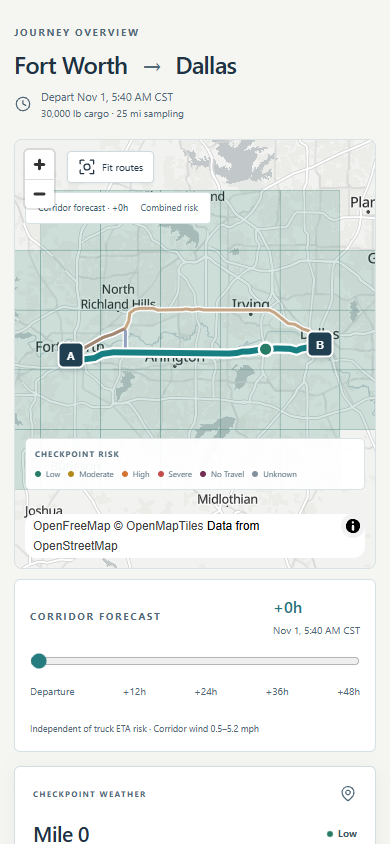
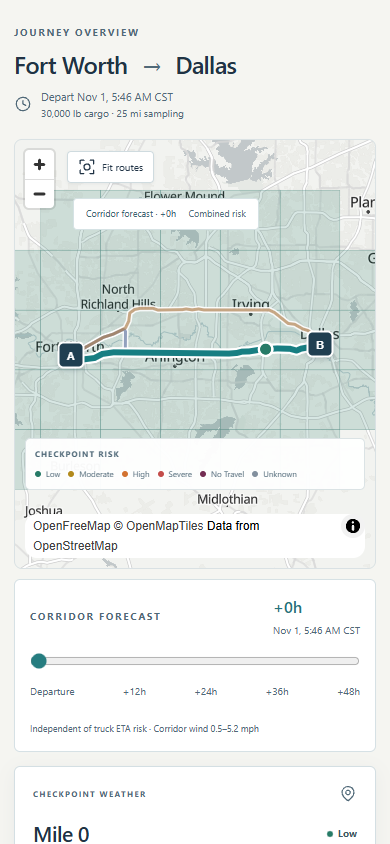
Audit every assessment requirement and record final verified submission state

Changed region(s): [[0.0923, 0.2156, 0.6769, 0.2773], [0.3077, 0.0924, 0.3385, 0.1232]]

diff --git a/frontend/tests/browser/journey.spec.ts b/frontend/tests/browser/journey.spec.ts
@@ -126,6 +126,18 @@ test('synthetic journey: comparison, inspector and real map sources stay synchro
       () => document.documentElement.scrollWidth <= window.innerWidth,
     ),
   ).toBe(true);
+  const label = await page.locator('.forecast-map-label').boundingBox();
+  const navigation = await page
+    .locator('.maplibregl-ctrl-top-left')
+    .boundingBox();
+  expect(label).not.toBeNull();
+  expect(navigation).not.toBeNull();
+  expect(
+    label!.x >= navigation!.x + navigation!.width ||
+      label!.y >= navigation!.y + navigation!.height ||
+      label!.x + label!.width <= navigation!.x ||
+      label!.y + label!.height <= navigation!.y,
+  ).toBe(true);
   await page.screenshot({
     path: testInfo.outputPath('journey.png'),
     fullPage: true,

diff --git a/docs/FINAL_AUDIT.md b/docs/FINAL_AUDIT.md
@@ -1,0 +1,61 @@
+# Final assessment audit
+
+Audit date: November 1, 2026. Authority: both pages of [the assessment PDF](fs-assessment-spotter.pdf). This is a critical local submission audit, not a claim of completed public delivery. No numerical assessment score or hiring outcome is inferred.
+
+## Requirement coverage
+
+Paths below are relative to the repository. All Python tests are under `backend/routing/tests`; browser cases are under `frontend/tests/browser`. Live receipts are separate from synthetic tests and retain their capture times.
+
+| Requirement | Implementation | Deterministic test evidence | Live / browser evidence | Status and remaining limitation |
+|---|---|---|---|---|
+| E01 React + Django | `frontend/src/app/App.tsx`, `backend/config`, API views | health/client/API tests; production build | Real local React journey calls Django; desktop/mobile screenshots | Implemented locally; public end-to-end release pending |
+| E02 Origin / destination | TripForm, PlaceSearch; Pelias adapter; `/geocode` | `journey.spec.ts` keyboard selection, unselected-input validation; `test_http_api.py` | `live-plan.json`: two candidates per actual search; rendered selected places | Complete locally; provider availability/quota dependent |
+| E03 Departure date/time | `features/trip/time.ts`, request serializers | seven timezone cases including DST gaps/ambiguity; API offset/horizon validation | Live plan stores UTC departure; browser shows explicit IANA-zone date/time | Complete; nonexistent/ambiguous wall times require another time or UTC |
+| E04 Load pounds | TripForm, pure `domain/risk.py` | `test_risk.py`: strict 30,000/40,000 equality and override boundaries; invalid input | Actual cargo field/units visible in browser | Complete; cargo is deliberately not ORS gross vehicle weight |
+| E05 Three API routes | `providers/ors.py`, factory; driving-hgv | `test_ors.py`: GeoJSON, warnings, timing, duplicate rejection, long-trip truck fallback | `ors-smoke.json`, `live-plan.json`, `live-browser.json`: three distinct Fort Worth-Dallas routes | Demonstrated; public alternatives limited to 100 km and never guaranteed for arbitrary pairs |
+| E06 10/25/50-mile weather checkpoints | `domain/geometry.py`, planning service | `test_pipeline.py`: spacing, short/exact/remainder, sections, endpoint uniqueness, distance conservation | Live backend proof at 10 miles; browser example at 25; all choices selectable | Complete; official step distance distributed along actual step geometry is an estimate |
+| E07 Weather at truck ETA | geometry timing, `domain/forecast.py`, forecasts service | Nonuniform step timing, fallbacks, midnight, arrival-specific hourly intervals, missing coverage | Live instruction totals reconcile within rounding; checkpoint ETA/valid-time inspector | Complete; ORS durations are estimates without live traffic, stops or driver-hours scheduling |
+| E08 Exact weather/load risk | `domain/risk.py`, `units.py`, `exposure.py` | Full parameterized thresholds/equality/conversions/unknowns; conservative Severe/High interval miles | Live normalized Open-Meteo units; browser hazard labels | Complete; shared PDF endpoints/decimal wind interpretations explicitly documented in D02/D03 |
+| E09 Recommendation priority | `domain/ranking.py`, `services/planning.py` | Tie-breaker counterexamples; unknown/No Travel exclusion; provisional wording | Live benign weather ties resolve by duration; synthetic browser verifies hazardous/incomplete branches | Complete; no live severe-weather journey is claimed; miles and ordinal average are estimates |
+| E10 All-route map / checkpoints / ETA / summaries | persistent RouteMap, RouteComparison, CheckpointInspector | Rendered source/selection checks, accessible list, WebGL fallback, synchronized details, Axe | Real tiles and geometries in screenshots; desktop/mobile browser proof | Complete locally; basemap requires network/WebGL, list remains available |
+| E11 Corridor heatmap / 0-48 slider | `domain/corridor.py`, signed context/corridor service; ForecastControls/Slider; MapLibre feature-state | `test_corridor.py`, forecast features tests; rendered 0/48, one fetch, unchanged recommendation, independent failure/retry | Live 35 cells / 49 frames; different frame values, render receipts and screenshots | Complete locally; categorical center-sample cells, not continuous meteorological observations; 96-cell cap, polar/dateline bounds; 50 ms target unproven |
+| E12 GitHub | existing origin, coherent local milestones, CI workflow | Lockfiles/setup/checks and history secret scan | Origin configured; no push performed | Partial delivery: local commits must be approved and pushed; remote CI not yet run |
+| E13 Hosted application | `render.yaml`, Gunicorn, production settings, `DEPLOYMENT.md` | Production subprocess check, HTTPS/header/CORS tests, production frontend build | Current official free-service documentation reviewed; no hosted instance created | Pending approval/account access: actual Linux startup, TLS, CORS, URLs/cold start must be verified |
+| E14 5-10 minute Loom | `WALKTHROUGH.md` seven-to-eight-minute demonstration outline | Documentation reviewed against PDF | No recording exists | Pending manual recording and accessible real link |
+
+## Independent correctness review
+
+- Risk calculations retain the PDF's unusual load direction. Wind at 55 is No Travel for all loads; strict heavier-load overrides preserve equality behavior. Rain at 1.00 and snow at 3.00 remain Severe; values above become No Travel. Display rounding never enters classification.
+- Road exposure sums interval lengths, not checkpoint counts. Each interval receives its worst endpoint; unknown persists unless a known No Travel hazard disqualifies it. The ordinal average is distance-weighted and has no probability interpretation. Comparison uses unrounded lexicographic values: Severe, High, average, duration.
+- Official route totals remain authoritative. Geometry locations and within-instruction timing are interpolated, with explicit section fallback when timing metadata is incomplete. Duplicate geometry is removed; fewer alternatives cause truthful provisional wording, never car-route substitution.
+- Forecasts are model predictions. Rain plus showers are separate liquid components; snowfall uses new-snow depth, not snow-water equivalent. Wind and precipitation valid times have distinct lookup semantics. Missing values remain missing. Forecast retrieval/cache timestamps remain exposed.
+- The independent corridor uses selected slider time, while checkpoints retain truck-arrival weather. Fixed polygons and feature-state updates prevent additive density colors from manufacturing severe risk. Unknown cells are not filled by neighboring samples.
+- Provider requests are bounded by coordinate batches, deadlines, transport limits, per-client throttles and conservative per-process budgets. Keys stay in server headers/environment. Signed context is uncompressed, size/geometry bounded and expires after 30 minutes. No database or speculative service infrastructure was added.
+- Final screenshot review found a mobile control overlap and corrected its position. A rendered bounding-box assertion guards that defect. Accessibility checks run WCAG A/AA rules without exclusions; these automated checks do not replace a human assistive-technology audit.
+
+## Evidence and limits by official weighting
+
+**40% routing/weather/risk/recommendation:** deterministic backend suite plus genuine ORS/Pelias/Open-Meteo proofs cover the full pipeline. Actual warning/error branches use controlled provider fixtures; the benign live journey does not validate severe-weather forecast accuracy or certify truck dispatch suitability.
+
+**40% UI/map/heatmap/performance:** desktop/mobile rendered journeys, real local screenshots, map synchronization, keyboard selection, independent 49-frame controls and missing/failure states are verified. Grid/payload bounds and persistent map geometry reduce work. Software-ANGLE timing samples exceed 50 ms in some frames; no p95 or hosted latency target is claimed. MapLibre's separately loaded bundle remains large and Vite reports its chunk-size warning.
+
+**15% code quality:** pure typed domain modules, separate provider adapters/services, validated API contracts, lockfiles, meaningful tests, lint/format/type/build gates, local commits and CI configuration. Runtime dependency audit and focused history/configured-secret scan are recorded. Remaining development-tool advisories are disclosed rather than suppressed. CI has not run remotely.
+
+**5% documentation and walkthrough:** current README, design decisions, requirement matrix, setup, verified screenshots, free deployment instructions and natural demonstration outline exist. A recorded Loom and actual public demo remain mandatory unfinished delivery items.
+
+## Verification receipts
+
+- [Machine-readable final check summary](evidence/verification.json): actual test counts, audit results and recorded check outcomes.
+- [ORS proof](evidence/ors-smoke.json), [live backend plan](evidence/live-plan.json), [live corridor](evidence/live-corridor.json), [live browser](evidence/live-browser.json).
+- [Secret scan](evidence/secret-scan-final.json), [runtime npm audit](evidence/npm-runtime-audit.json), [full npm audit](evidence/npm-audit.json).
+- [Desktop screenshot](screenshots/desktop.png), [mobile map](screenshots/mobile.png), [mobile forecast](screenshots/mobile-forecast.png). Captures use actual local provider responses; test fixtures are never production fallback data.
+
+No hosted/public-delivery proof is implied by local browser success. Free Render services sleep, and process-local caches/budgets reset on restart; keep a single backend process. Open-Meteo free use is noncommercial. Truck dimensions and legal dispatch restrictions are not certified. Polar/dateline corridor requests are explicitly rejected; unusually detailed geometry can exceed the bounded independent-context limit without invalidating an otherwise evaluable plan.
+
+## Remaining release sequence
+
+1. Obtain approval to push the tested local commits; inspect remote CI after publication.
+2. With authenticated user access, approve/create only the documented free Render services without a payment method. Verify actual Linux process startup, HTTPS health, exact CORS, a real journey and slider endpoints at both viewport sizes. Stop if a card/paid plan is required.
+3. Add only verified public URLs to README, record the real 5-10 minute Loom, check its accessibility and add the link.
+
+These are the remaining assessment-delivery blockers. The application is an assessment prototype, not certified severe-weather navigation or truck-dispatch guidance.

diff --git a/docs/IMPLEMENTATION.md b/docs/IMPLEMENTATION.md
@@ -6,7 +6,11 @@ Phases 1-5 are implemented and locally verified. Phase 6 prepares free Render ho
 
 Phase 6 gate: **225 backend tests passed**, Django normal checks reported **0 issues**, and Ruff lint/format passed across 54 Python files. Production checks run in an isolated test process and exit 0 with the two intentional HSTS warnings W005/W021. Frontend formatting, lint, type checks, **25 unit tests** and production build passed. The first verification invocation omitted the required local environment and failed startup; rerunning with explicit DJANGO_DEBUG=true produced these results. No startup failure was counted as a passing test.
 
-The live browser refresh used one real plan and one real corridor request: 3 ORS truck routes, 35 cells, 49 frames, no page errors or horizontal overflow, unchanged recommendation. Plan HTTP time was 6,487 ms; five software-rendered frame samples ranged 31.7-158.8 ms. No 50 ms or p95 claim is made. Screenshots are actual local live-provider captures. A mobile map-label/control overlap found during inspection was corrected afterward and is included in final browser verification.
+The live browser refresh used one real plan and one real corridor request: 3 ORS truck routes, 35 cells, 49 frames, no page errors or horizontal overflow, unchanged recommendation. Final plan HTTP time was 8,532 ms; five software-rendered frame samples ranged 29.4-181.1 ms. No 50 ms or p95 claim is made. Screenshots are actual local live-provider captures. A mobile map-label/control overlap found during inspection was corrected and the final screenshots and rendered regression assertion verify the fix.
+
+## Final phase 7 gate
+
+225 backend tests, 25 frontend unit tests and 20 desktop/mobile Playwright tests passed; zero failed/skipped/flaky tests. Final lint, format, type checks, Django checks, lock check and production build passed. The public Render blueprint schema validates the prepared two-service configuration; no resources were created. Runtime npm audit reports zero vulnerabilities; full audit retains 12 moderate development-tool entries, zero high/critical. Fresh screenshots were inspected, including the corrected mobile map control placement. The focused secret scanner initially flagged the generated-key expression in init_env.py; rewriting that expression resolved the false positive without weakening scan rules. See evidence/verification.json for machine-readable counts and FINAL_AUDIT.md for E01-E14 coverage and remaining public-delivery gates.
 
 ## Subsequent phase 1 — ORS migration (November 1)
 

diff --git a/docs/ARCHITECTURE.md b/docs/ARCHITECTURE.md
@@ -27,7 +27,7 @@ Frontend owns input, display, map selection and forecast playback. Django owns c
 
 Use REST JSON under `/api/v1`. No persistent trips, user accounts, database models, queue, websocket or Redis required. Same contracts support later persistence without designing for it now. A small process-local TTL cache and signed, short-lived corridor context avoid permanent server state.
 
-Executable contracts are now `frontend/src/api/contracts.ts` and `backend/routing/api/serializers.py`. The illustrative structures and wire notation below record the approved design, not a generated inventory; concrete names can differ without adding architecture. Implementation uses services/cache.py, services/context.py, providers/ors.py and providers/pelias.py; it processes sequential forecast batches of at most 25 and caps the practical corridor grid at 96 cells.
+Executable contracts are now `frontend/src/api/contracts.ts` and `backend/routing/api/serializers.py`. The illustrative structures and wire notation below record the approved design, not a generated inventory; concrete names can differ without adding architecture. Implementation uses services/cache.py, services/context.py and providers/ors.py (including PeliasGeocoding); it processes sequential forecast batches of at most 25 and caps the practical corridor grid at 96 cells.
 
 ## Frontend structure
 

diff --git a/docs/DECISIONS.md b/docs/DECISIONS.md
@@ -38,4 +38,4 @@ Free-account use is bounded conservatively; API errors never trigger a paid endp
 - [HERE time-dependent routing](https://docs.here.com/routing/docs/routing-v8-time-dependent-routing): departure timestamps accept RFC3339. Always send a known departure.
 - [Open-Meteo forecast documentation](https://open-meteo.com/en/docs): hourly model forecasts and variable metadata; coverage must be checked in actual returned series.
 
-Documentation lookup is not evidence that provider calls or deployment work. No provider credentials or successful live calls have been established in this planning phase.
+Documentation lookup is not evidence that provider calls or deployment work. The original planning phase established no successful calls; subsequent genuine ORS/Pelias/Open-Meteo evidence is recorded separately in IMPLEMENTATION.md and FINAL_AUDIT.md. Public hosting remains unverified.

diff --git a/docs/PLAN.md b/docs/PLAN.md
@@ -1,6 +1,6 @@
 # Four-day implementation and validation plan
 
-Current checkpoint: phases 1-5 implemented; phase 6 release configuration prepared; final audit and evidence refresh underway. ORS driving-hgv/Pelias replace the original HERE spike in this approved sequence. See IMPLEMENTATION.md for measured progress. Hosted verification, pushing and Loom recording remain delivery gates requiring manual action and explicit publication approval.
+Current checkpoint: phases 1-5 implemented and tested; phase 6 release configuration prepared; phase 7 local audit recorded in FINAL_AUDIT.md. ORS driving-hgv/Pelias replace the original HERE spike in this approved sequence. See IMPLEMENTATION.md for measured progress. Hosted verification, pushing and Loom recording remain delivery gates requiring manual action and explicit publication approval.
 
 ## Precise sequence and day gates
 

diff --git a/AGENTS.md b/AGENTS.md
@@ -17,3 +17,5 @@ Build Weather-Aware Truck Routing with React and Django. The authoritative speci
 - Do not silently reduce requested checkpoint spacing, manufacture route alternatives, or substitute car routes for truck routes.
 
 Keep the requirement matrix and decisions current as implementation changes. Review progress against docs/PLAN.md before expanding scope.
+
+Submission checkpoint: the full local routing/map/corridor application and release configuration are implemented. FINAL_AUDIT.md records evidence and limitations. Remaining delivery work is approved publication, hosted verification and a real Loom recording; do not infer approval from prepared release instructions.
